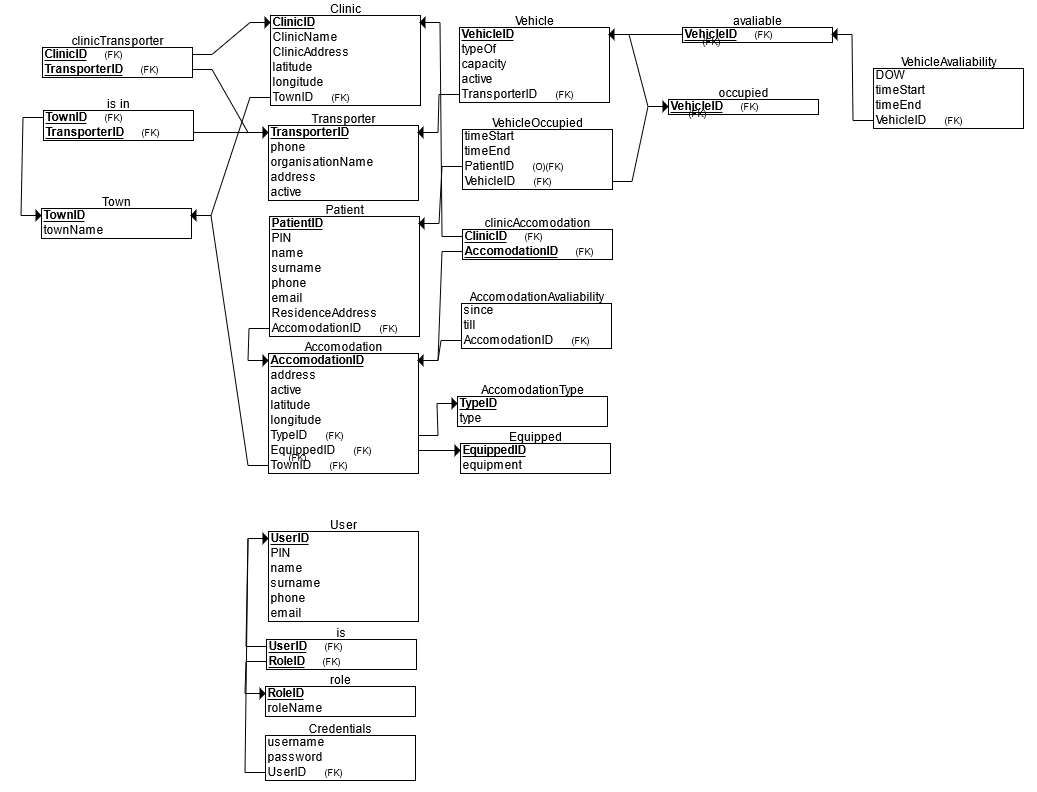
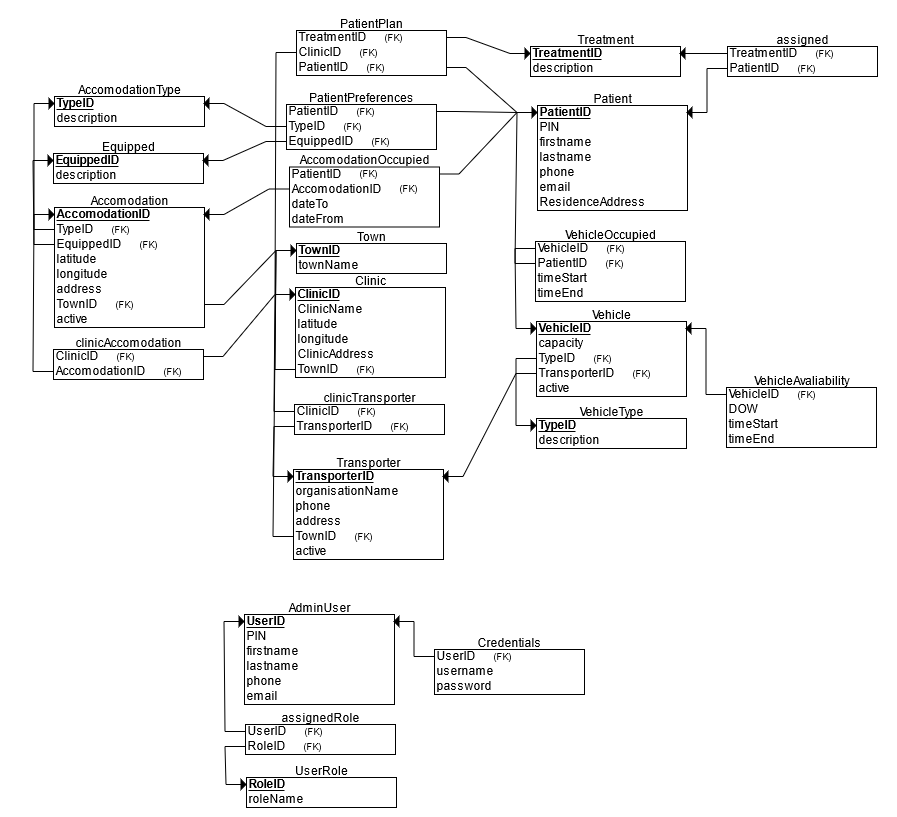
Dodane nove tablice i nova shema baze

diff --git a/Dokumentacija/Arhitektura.tex b/Dokumentacija/Arhitektura.tex
@@ -6,11 +6,11 @@
 		\item 	\textbf{Web poslužitelj} – glavni je dio web aplikacije. To je most koji povezuje korisnika i bazu podataka koji se temelji na protokolu HTTP. Na zahtjeve korisnika dohvaća tražene podatke (resurse) ili obrađuje i sprema poslane podatke od korisnika.
 		\item 	\textbf{Baza podataka} – srce je sustava. U njoj su pospremljeni svi podaci. Skoro ne postoji sustav u kojem nema komunikacije između aplikacije i baze.	
 	\end{itemize}
-		Aplikacije je izgrađena na modelu MVC (Model – View - Controller) softverske arhitekture. Shodno tome aplikaciju onda dijelimo na tri komponente:
+		Aplikacije je izgrađena na modelu MVC (Model – View - Controller) softverske arhitekture uz male modifikacije. Controller dio strukture je ostvaren tako što je integriran unutar same baze. Shodno tome aplikaciju onda dijelimo na tri komponente:
 	\begin{itemize}
 		\item	\textbf{Model} – glavna komponenta sustava. Čuva razrede čiji se objekti obrađuju.
 		\item	\textbf{View} – komponenta zaslužna za reprezentaciju podataka.
-		\item	\textbf{Controller} – komponenta zaslužna za komunikaciju između korisnika i modela ili view-a.
+		\item	\textbf{Controller} – komponenta koja odrađuje svu logiku i komunikaciju između sučelja i baze.
 	\end{itemize}
 	
 		\smallskip
@@ -29,16 +29,19 @@
 			\begin{itemize}
 				\item Clinic
 				\item Town
-				\item User
+				\item AdminUser
 				\item Credentials
-				\item Role
+				\item UserRole
 				\item Patient
+				\item Treatment
+				\item PatientPreferences
 				\item Accomodation
 				\item AccomodationType
 				\item Equipped
-				\item AccomodationAvaliability
+				\item AccomodationOccupied
 				\item Transporter
 				\item Vehicle
+				\item VehicleType
 				\item VehicleOccupied
 				\item VehicleAvaliability
 			\end{itemize}
@@ -46,7 +49,7 @@
 			\subsection{Opis tablica}
 			
 				%clinic
-				\textbf{Clinic} Ovaj entitet sadrži podatke o klinikama u odabranoj zemlji. Atributi su: ClinicID (primary key), clinicName, clinicAddress, TownID (foreign key), latitude i longitude. Ovaj je entitet u vezi Many-to-One sa entitetom Town preko atributa TownID, u Many-to-Many vazi sa entitetom Accomodation preko atributa ClinicID i AccomodationID te u Many-to-Many vezi sa entitetom Transporter preko atributa ClinicID i TransporterID.
+				\textbf{Clinic} Ovaj entitet sadrži podatke o klinikama u odabranoj zemlji. Atributi su: ClinicID (primary key), clinicName, latitude, longitude, clinicAddress, TownID (foreign key). Ovaj je entitet u vezi Many-to-One sa entitetom Town preko atributa TownID, u Many-to-Many vazi sa entitetom Accomodation preko atributa AccomodationID i ClinicID, u Many-to-Many vezi sa entitetom Transporter preko atributa TransporterID i ClinicID , u One-to-Many vezi sa entitetom Patient preko atributa PatientID i ClinicID te u Many-to-Many vezi sa entitetom Treatment preko atributa TreatmentID.
 				
 				\begin{longtblr}[
 					label=none,
@@ -58,15 +61,15 @@
 					} %definicija širine tablice, širine stupaca, poravnanje i broja redaka naslova tablice
 					\hline \SetCell[c=3]{c}{\textbf{Clinic}}	 \\ \hline[3pt]
 					\SetCell{LightGreen}ClinicID & BIGSERIAL & Jedinstveni brojčani identifikator klinike,automatski generiran \\ \hline
-					clinicName & VARCHAR & Ime klinike	\\ \hline 
-					clinicAddress & VARCHAR & Adresa klinike  \\ \hline 
+					clinicName & VARCHAR & Ime klinike	\\ \hline  
 					Latitude & DECIMAL	& Geografska širina	\\ \hline 
 					Longitude & DECIMAL & Geografska dužina \\ \hline
+					clinicAddress & VARCHAR & Adresa klinike  \\ \hline
 					\SetCell{LightBlue}TownID & INT & Grad u kojem se klinika nalazi \\ \hline
 				\end{longtblr}
 				
 				%Town
-				\textbf{Town} Ovaj entitet sadrži podatke o gradovima u kojima se nalaze klinike i dolaze pacijenti na liječenje. Atributi su: TownID (primary key) i townName. Ovaj entitet je u vezi One-to-Many sa entitetom Clinic preko atributa TownID i u vezi One-to-Many sa entitetom Accomodation preko atributa TownID i u Many-to-Many vezi sa entitetom Transporter preko atributa TownID.
+				\textbf{Town} Ovaj entitet sadrži podatke o gradovima u kojima se nalaze klinike u koje dolaze pacijenti na liječenje. Atributi su: TownID (primary key) i townName. Ovaj entitet je u vezi One-to-Many sa entitetom Clinic preko atributa TownID i u vezi One-to-Many sa entitetom Accomodation preko atributa TownID i u Many-to-Many vezi sa entitetom Transporter preko atributa TownID.
 				
 				\begin{longtblr}[
 					label=none,
@@ -81,8 +84,10 @@
 					townName & VARCHAR & Ime grada	\\ \hline 
 				\end{longtblr}
 				
-				%User
-				\textbf{User} Ovaj entitet sadrži podatke o korisnicima aplikacije; svi administratori i oni koji mogu dodavati ili ažurirati ili brisati podatke iz baze. Atributi su: UserID (primary key), PIN(personal identification number), name, surname, contact, email. Ovaj je entitet u vezi Many-to-Many sa entitetom Role preko atributa RoleID.
+				\newpage
+				
+				%AdminUser
+				\textbf{AdminUser} Ovaj entitet sadrži podatke o korisnicima aplikacije; svi administratori i oni koji mogu dodavati ili ažurirati ili brisati podatke iz baze. Atributi su: UserID (primary key), PIN(personal identification number), firstname, lastname, phone, email. Ovaj je entitet u vezi Many-to-Many sa entitetom UserRole preko atributa RoleID te u vezi One-to-One sa entitetom Credentials preko atributa UserID.
 				
 				\begin{longtblr}[
 					label=none,
@@ -92,17 +97,17 @@
 						colspec={|X[8,l]|X[6, l]|X[20, l]|}, 
 						rowhead = 1,
 					} %definicija širine tablice, širine stupaca, poravnanje i broja redaka naslova tablice
-					\hline \SetCell[c=3]{c}{\textbf{User}}	 \\ \hline[3pt]
+					\hline \SetCell[c=3]{c}{\textbf{AdminUser}}	 \\ \hline[3pt]
 					\SetCell{LightGreen}UserID & BIGSERIAL & Jedinstveni brojčani identifikator korisnika, automatski generiran \\ \hline
 					PIN & INT & Identifikacijski broj korisnika	\\ \hline 
-					name & VARCHAR & Ime korisnika  \\ \hline 
-					surname & VARCHAR & Prezime korisnika	\\ \hline 
+					firstname & VARCHAR & Ime korisnika  \\ \hline 
+					lastname & VARCHAR & Prezime korisnika	\\ \hline 
 					phone & VARCHAR & Broj mobitela korisnika \\ \hline
 					email & VARCHAR & Elektronička pošta korisnika \\ \hline
 				\end{longtblr}
 				
 				%Credentials
-				\textbf{Credentials} Ovaj entitet sadrži podatke o korisničkim računima administratora. Atributi su: username i password. Ovaj je entitet u One-to-One vezi sa entitetom User preko atributa UserID.
+				\textbf{Credentials} Ovaj entitet sadrži podatke o korisničkim računima administratora. Atributi su: UserID (foreign key), username i pass. Ovaj je entitet u One-to-One vezi sa entitetom AdminUser preko atributa UserID.
 				
 				\begin{longtblr}[
 					label=none,
@@ -113,13 +118,31 @@
 						rowhead = 1,
 					} %definicija širine tablice, širine stupaca, poravnanje i broja redaka naslova tablice
 					\hline \SetCell[c=3]{c}{\textbf{Credentials}}	 \\ \hline[3pt]
+					\SetCell{LightBlue}UserID & BIGSERIAL & ID korisnika kojem pripadaju korisničko ime i lozinka \\ \hline
 					username & VARCHAR & Jedinstveno korisničko ime \\ \hline
-					password & BINARY & Lozinka korisnika za prijavu u aplikaciju	\\ \hline 
-					\SetCell{LightBlue}UserID & INT & ID korisnika kojem pripadaju korisničko ime i lozinka \\ \hline
+					pass & BINARY & Lozinka korisnika za prijavu u aplikaciju	\\ \hline 
+				\end{longtblr}
+
+				\newpage
+
+				%UserRole
+				\textbf{UserRole} Ovaj entitet sadrži podatke o ulogama koje postoje u sustavu. Atributi su: RoleID i roleName. Ovaj je entite u Many-to-One vezi sa entitetom UserAdmin preko atributa UserID.
+				
+				\begin{longtblr}[
+					label=none,
+					entry=none
+					]{
+						width = \textwidth,
+						colspec={|X[8,l]|X[6, l]|X[20, l]|}, 
+						rowhead = 1,
+					} %definicija širine tablice, širine stupaca, poravnanje i broja redaka naslova tablice
+					\hline \SetCell[c=3]{c}{\textbf{UserRole}}	 \\ \hline[3pt]
+					\SetCell{LightGreen}RoleID & SMALLINT & Jedinstveni indentifikator uloge, automatski generiran \\ \hline
+					roleName & VARCHAR & ime uloge \\ \hline 
 				\end{longtblr}
 				
 				%Patient
-				\textbf{Patient} Ovaj entitet sadrži podatke o korisnicima zdravstvenog turizma. Atributi su: PatientID (primary key), PIN (personal identification number), name, surname, email, phone, residenceAddress. Ovaj je entitet u vezi Many-to-One sa entitetom Accomodation preko atributa AccomodationID.
+				\textbf{Patient} Ovaj entitet sadrži podatke o korisnicima zdravstvenog turizma. Atributi su: PatientID (primary key), PIN (personal identification number), firstname, lastname, phone, email, residenceAddress. Ovaj je entitet u vezi One-to-One sa entitetom Accomodation preko atributa AccomodationID, u vezi One-to-Many vezi sa entitetom Treatment preko atributa TreatmentID te u One-to-Many vezi sa entitetom Clinic preko atributa ClinicID i PatietnID.
 				
 				\begin{longtblr}[
 					label=none,
@@ -132,16 +155,50 @@
 					\hline \SetCell[c=3]{c}{\textbf{Patient}}	 \\ \hline[3pt]
 					\SetCell{LightGreen}PatientID & BIGSERIAL & Jedinstveni brojčani identifikator pacijenta, automatski generiran \\ \hline
 					PIN & INT & Identifikacijski broj pacijenta	\\ \hline 
-					name & VARCHAR & Ime pacijenta  \\ \hline 
-					surname & VARCHAR & Prezime pacijenta	\\ \hline 
+					firstname & VARCHAR & Ime pacijenta  \\ \hline 
+					lastname & VARCHAR & Prezime pacijenta	\\ \hline 
 					phone & VARCHAR & Broj mobitela pacijenta \\ \hline
 					email & VARCHAR & Elektronička pošta pacijenta \\ \hline
 					residenceAddress & VARCHAR & Mjesto prebivališta pacijenta \\ \hline
-					\SetCell{LightBlue}AccomodationID & INT & ID smještaja u kojem je smješten pacijent \\ \hline
+				\end{longtblr}
+				
+				\newpage
+				
+				%Treatment
+				\textbf{Treatment} Ovaj entitet sadrži podatke o tretmanima. Atributi su: TreatmentID (primary key) i description. Ovaj je entite u Many-to-One vezi sa entitetom Patient preko atributa TreatmentID i PatientID te u One-to-Many vezi sa entitetom Clinic preko atributa TreatmentID i ClinicID.
+				
+				\begin{longtblr}[
+					label=none,
+					entry=none
+					]{
+						width = \textwidth,
+						colspec={|X[8,l]|X[6, l]|X[20, l]|}, 
+						rowhead = 1,
+					} %definicija širine tablice, širine stupaca, poravnanje i broja redaka naslova tablice
+					\hline \SetCell[c=3]{c}{\textbf{Treatment}}	 \\ \hline[3pt]
+					\SetCell{LightGreen}TreatmentID & BIGSERIAL & Jedinstveni indentifikator tretmana, automatski generiran \\ \hline
+					description & text & opsi tretmana \\ \hline 
+				\end{longtblr}
+				
+					%PatientPreferences
+				\textbf{PatientPreferences} Ovaj entitet sadrži podatke o preferencijama pacijenta vezanih za smještaj. Atributi su: PatientID (foreign key), TypeID (foreign key), EquippedID (foreign key). Ovaj je entite u Many-to-One vezi sa entitetom Patient preko atributa PatientID, u One-to-One vezi sa entitetom AccomodationType preko atributa AccomodationID te u One-to-One vezi sa entitetom Equipped preko atributa EquippedID.
+				
+				\begin{longtblr}[
+					label=none,
+					entry=none
+					]{
+						width = \textwidth,
+						colspec={|X[8,l]|X[6, l]|X[20, l]|}, 
+						rowhead = 1,
+					} %definicija širine tablice, širine stupaca, poravnanje i broja redaka naslova tablice
+					\hline \SetCell[c=3]{c}{\textbf{PatientPreferences}}	 \\ \hline[3pt]
+					\SetCell{LightBlue}PatientID & BIGSERIAL & Jedinstveni indentifikator pacijenta, automatski generiran \\ \hline
+					\SetCell{LightBlue}TypeID & SMALLINT & Jedinstveni indentifikator vrste smještaja, automatski generiran \\ \hline
+					\SetCell{LightBlue}EquippedID & SMALLINT & Jedinstveni indentifikator opremljenosti smještaja, automatski generiran \\ \hline
 				\end{longtblr}
 				
 				%Accomodation
-				\textbf{Accomodation} Ovaj entitet sadrži podatke o smještaju, vrsti smještaja, njegovoj opremljenosti te adresi na kojoj se nalazi kao i koordinatama. Atributi su: AccomodationID (primary key), address, latitude, longitude, active. Ovaj je entitet u vezi Many-to-One sa entitetom Town preko atributa TownID, nadalje u vezi Many-to-One sa entitetom AccomodationType preko atributa TypeID, u vezi Many-to-One sa entitetom Equipped preko atributa EquippedID, u vezi Many-to-One sa entitetom AccomodationAvaliability preko atributa AccomodationID te u vezi One-to-Many sa entitetom Patient preko atributa AccomodationID.
+				\textbf{Accomodation} Ovaj entitet sadrži podatke o smještaju, vrsti smještaja, njegovoj opremljenosti te adresi na kojoj se nalazi kao i koordinatama. Atributi su: AccomodationID (primary key), TypeID (foreign key), EquippedID (foreing key), latitude, longitude, address, TownID (foreign key), active. Ovaj je entitet u vezi Many-to-One sa entitetom Town preko atributa TownID, nadalje u vezi Many-to-One sa entitetom AccomodationType preko atributa TypeID, u vezi Many-to-One sa entitetom Equipped preko atributa EquippedID, u vezi One-to-One sa entitetom Patient preko atributa AccomodationID i PatientID.
 				
 				\begin{longtblr}[
 					label=none,
@@ -153,17 +210,17 @@
 					} %definicija širine tablice, širine stupaca, poravnanje i broja redaka naslova tablice
 					\hline \SetCell[c=3]{c}{\textbf{Accomodation}}	 \\ \hline[3pt]
 					\SetCell{LightGreen}AccomodationID & BIGSERIAL & Jedinstveni brojčani identifikator smještaja, automatski generiran \\ \hline
-					address & VARCHAR & Adresa smještaja	\\ \hline 
-					latitude & DECIMAL & Geografska širina  \\ \hline 
-					longitude & DECIMAL & Geografska dužina	\\ \hline 
-					active & BIT & Je li smještaj upotrebljiv \\ \hline
 					\SetCell{LightBlue} TypeID & INT & ID vrste smještaja \\ \hline
 					\SetCell{LightBlue} EquippedID & INT & ID opremljenosti smještaja \\ \hline
+					latitude & DECIMAL & Geografska širina  \\ \hline 
+					longitude & DECIMAL & Geografska dužina	\\ \hline 
+					address & VARCHAR & Adresa smještaja	\\ \hline
 					\SetCell{LightBlue} TownID & INT & ID grada u kojem se smještaj nalazi \\ \hline
+					active & BIT & Je li smještaj upotrebljiv \\ \hline
 				\end{longtblr}
 				
 				%AccomodationType
-				\textbf{AccomodationType} Ovaj entitet sadrži podatke o tipu smještaja (stan u zgradi, stan u kući, iznajmljeno, u vlasništvu klinike) . Atributi su: TypeID (primary key), type. Ovaj je entitet u One-to-Many vezi s entitetom Accomodation preko atributa TypeID.
+				\textbf{AccomodationType} Ovaj entitet sadrži podatke o tipu smještaja (stan u zgradi, stan u kući, iznajmljeno, u vlasništvu klinike). Atributi su: TypeID (primary key), description. Ovaj je entitet u One-to-Many vezi s entitetom Accomodation preko atributa TypeID.
 				
 				\begin{longtblr}[
 					label=none,
@@ -174,12 +231,12 @@
 						rowhead = 1,
 					} %definicija širine tablice, širine stupaca, poravnanje i broja redaka naslova tablice
 					\hline \SetCell[c=3]{c}{\textbf{AccomodationType}}	 \\ \hline[3pt]
-					\SetCell{LightGreen}TypeID & SMALLINT & Jedinstveni brojčani identifikator vrste smještaja, automatski generiran \\ \hline
+					\SetCell{LightGreen}TypeID & SMALLINT & Jedinstveni identifikator vrste smještaja, automatski generiran \\ \hline
 					description & TEXT & Opis vrste smještaja (stan u kući, stan u zgradi, soba u hotelu ili motelu)	\\ \hline 
 				\end{longtblr}
 				
 				%Equipped
-				\textbf{Equipped} Ovaj entitet sadrži podatke o vrsti opremljenosti smještaja (potpuno opremljen, djelomično opremljen).  Atributi su: EquippedID (primary key), equipment. Ovaj je entitet u One-to-Many vezi sa entitetom Accomodation preko atributa EquippedID.
+				\textbf{Equipped} Ovaj entitet sadrži podatke o vrsti opremljenosti smještaja (potpuno opremljen, djelomično opremljen). Atributi su: EquippedID (primary key), equipment. Ovaj je entitet u One-to-Many vezi sa entitetom Accomodation preko atributa EquippedID.
 				
 				\begin{longtblr}[
 					label=none,
@@ -190,12 +247,12 @@
 						rowhead = 1,
 					} %definicija širine tablice, širine stupaca, poravnanje i broja redaka naslova tablice
 					\hline \SetCell[c=3]{c}{\textbf{Equipped}}	 \\ \hline[3pt]
-					\SetCell{LightGreen}EquippedID & SMALLINT & Jedinstveni brojčani identifikator opremljenosti smještaja, automatski generiran \\ \hline
+					\SetCell{LightGreen}EquippedID & SMALLINT & Jedinstveni identifikator opremljenosti smještaja, automatski generiran \\ \hline
 					equipment & TEXT & Opis opremljenosti smještaja (potpuno opremljen, djelomično opremljen)	\\ \hline 
 				\end{longtblr}
 				
-				%AccomodationAvaliability
-				\textbf{AccomodationAvaliability} Ovaj entitet sadrži podatke o dostupnosti smještaja za naseljavanje za vrijeme medicinskog boravka. Atributi su: since, till. Ovaj je entitet u One-to-Many vezi sa entitetom Accomodation preko atributa AccomodationID.
+				%AccomodationOccupied
+				\textbf{AccomodationOccupied} Ovaj entitet sadrži podatke o zauzetosti smještaja kojima raspolaže pojedina klinika. Atributi su: PatientID (foreign key), AccomodationID (foreign key), dateTo, dateFrom. Ovaj je entitet u One-to-One vezi sa entitetom Accomodation preko atributa AccomodationID te u One-to-One vezi sa entiteom Patient preko atributa PatientID.
 				
 				\begin{longtblr}[
 					label=none,
@@ -205,14 +262,15 @@
 						colspec={|X[8,l]|X[6, l]|X[20, l]|}, 
 						rowhead = 1,
 					} %definicija širine tablice, širine stupaca, poravnanje i broja redaka naslova tablice
-					\hline \SetCell[c=3]{c}{\textbf{AccomodationAvaliability}}	 \\ \hline[3pt]
-					since & DATE & Datum od kojeg je smještaj dostupan \\ \hline
-					till & DATE & Datum do kojeg je smještaj dostupan \\ \hline
-					\SetCell{LightBlue}AccomodationID & ID & ID smještaja \\ \hline 
+					\hline \SetCell[c=3]{c}{\textbf{AccomodationOccupied}}	 \\ \hline[3pt]
+					\SetCell{LightBlue}PatientID & BIGSERIAL & Jedinstveni identifikator pacijenta \\ \hline
+					\SetCell{LightBlue}AccomodationID & BIGSERIAL & Jedinstveni identifikator smještaja \\ \hline
+					dateFrom & DATE & Datum od kojeg je smještaj dostupan \\ \hline
+					dateTo & DATE & Datum do kojeg je smještaj dostupan \\ \hline 
 				\end{longtblr}
 				
 				%Transporter
-				\textbf{Transporter} Ovaj entitet sadrži podatke o prijevoznicima s kojima klinika ima ugovore za prijevoz pacijenata. Atributi su: TransporterID (primary key), organisationName, contact, address, active. Ovaj je entitet u Many-to-Many vezi sa entitetom Town preko atributa TownID, u Many-to-Many vezi sa entitetom Clinic preko atributa ClincID te u One-to-Many vezi sa entitetom Vehicle preko atributa TransporterID.
+				\textbf{Transporter} Ovaj entitet sadrži podatke o prijevoznicima s kojima klinika ima ugovore za prijevoz pacijenata. Atributi su: TransporterID (primary key), organisationName, phone, address, TownID (foreign key), active. Ovaj je entitet u Many-to-Many vezi sa entitetom Town preko atributa TownID, u Many-to-Many vezi sa entitetom Clinic preko atributa ClincID te u One-to-Many vezi sa entitetom Vehicle preko atributa TransporterID.
 				
 				\begin{longtblr}[
 					label=none,
@@ -223,15 +281,16 @@
 						rowhead = 1,
 					} %definicija širine tablice, širine stupaca, poravnanje i broja redaka naslova tablice
 					\hline \SetCell[c=3]{c}{\textbf{Transporter}}	 \\ \hline[3pt]
-					\SetCell{LightGreen}TransporterID & BIGSERIAL & Jedinstveni brojčani identifikator prijevoznika, automatski generiran \\ \hline
+					\SetCell{LightGreen}TransporterID & BIGSERIAL & Jedinstveni identifikator prijevoznika, automatski generiran \\ \hline
 					organisationName & VARCHAR & Ime prijevoznika \\ \hline
 					phone & VARCHAR & Broj mobitela prijevoznika \\ \hline
 					address & VARCHAR & Adresa baze prijevoznika \\ \hline
+					\SetCell{LightBlue} TownID & INT & ID grada u kojem se smještaj nalazi \\ \hline
 					active & BIT & Je li prijevoznik radi \\ \hline
 				\end{longtblr}
 				
 				%Vehicle
-				\textbf{Vehicle} Ovaj entitet sadrži podatke o vozilima kojima transporter raspolaže. Atributi su: VehicleID (primary key), typeOf, capacity te active. Ovaj je entitet u Many-to-One vezi sa entitetom Transporter preko atributa TransporterID, u Many-to-Many vezi sa netitetom VehicleOccupied preko atributa VehicleID te u Many-to-Many vezi sa entitetom VehicleAvaliability preko atributa VehicleID.
+				\textbf{Vehicle} Ovaj entitet sadrži podatke o vozilima kojima transporter raspolaže. Atributi su: VehicleID (primary key), capacity TypeID (foreign key), TransporterID (foreign key) te active. Ovaj je entitet u Many-to-One vezi sa entitetom Transporter preko atributa TransporterID, u Many-to-Many vezi sa entitetom VehicleOccupied preko atributa VehicleID, u One-to-One vezi sa entitetom VehicleType preko atributa VehicleID te u One-to-Manz vezi sa entitetom VehicleAvaliability preko atributa VehicleID.
 				
 				\begin{longtblr}[
 					label=none,
@@ -242,15 +301,33 @@
 						rowhead = 1,
 					} %definicija širine tablice, širine stupaca, poravnanje i broja redaka naslova tablice
 					\hline \SetCell[c=3]{c}{\textbf{Vehicle}}	 \\ \hline[3pt]
-					\SetCell{LightGreen}VehicleID & BIGSERIAL & Jedinstveni brojčani identifikator vozila, automatski generiran \\ \hline
-					typeOf & VARCHAR & Vrsta vozila (kombi, auto) \\ \hline
+					\SetCell{LightGreen}VehicleID & BIGSERIAL & Jedinstveni identifikator vozila, automatski generiran \\ \hline
 					capacity & SMALLINT & Kapacitet vozila (2 osobe, 4 osobe, 5 osoba….) \\ \hline
+					\SetCell{LightBlue}TypeID & SAMLLINT & Vresta vozila \\ \hline
+					\SetCell{LightBlue}TransporterID & INT & Jedinstveni identifikator prijevoznika kojem vozilo pripada \\ \hline
 					active & BIT & Je li vozilo u funkciji \\ \hline
-					\SetCell{LightBlue}TransporterID & INT & ID prijevoznika kojem vozilo pripada \\ \hline
 				\end{longtblr}
 				
+				%VehicleType
+				\textbf{VehicleType} Ovaj entitet sadrži podatke o vrsti vozila. Atributi su: TypeID(primary key), description. Ovaj je entitet u One-to-One vezi sa entitetom Vehicele preko atributa VehicleID.
+				
+				\begin{longtblr}[
+					label=none,
+					entry=none
+					]{
+						width = \textwidth,
+						colspec={|X[8,l]|X[6, l]|X[20, l]|}, 
+						rowhead = 1,
+					} %definicija širine tablice, širine stupaca, poravnanje i broja redaka naslova tablice
+					\hline \SetCell[c=3]{c}{\textbf{VehicleType}}	 \\ \hline[3pt]
+					\SetCell{LightGreen}TypeID & SMALLINT & Jedinstveni identifikator vrste vozila, automatski generiran \\ \hline
+					description & TEXT & Opis vrste vozila (auto, kombi, min-bus...) \\ \hline
+				\end{longtblr}
+				
+				\newpage
+				
 				%VehicleOccupied
-				\textbf{VehicleOccupied} Ovaj entitet sadrži podatke o vremenima kada je koje vozilo zauzeto, tj. kada prevozi pacijente od smještaja do klinike te natrag to smještaja. Atributi su: timeStart, timeEnd, PatientID. Ovaj je entitet u Many-to-Many vezi sa entitetom Vehicle preko atributa VehicleID te u One-to-One vezi sa entitetom Patient preko atributa PatientID.
+				\textbf{VehicleOccupied} Ovaj entitet sadrži podatke o vremenima kada je koje vozilo zauzeto, tj. kada prevozi pacijente od smještaja do klinike te natrag. Atributi su: VehicleID (foreign key), PatientID (foreign key), timeStart, timeEnd. Ovaj je entitet u One-to-Many vezi sa entitetom Vehicle preko atributa VehicleID te u One-to-One vezi sa entitetom Patient preko atributa PatientID.
 				
 				\begin{longtblr}[
 					label=none,
@@ -261,14 +338,14 @@
 						rowhead = 1,
 					} %definicija širine tablice, širine stupaca, poravnanje i broja redaka naslova tablice
 					\hline \SetCell[c=3]{c}{\textbf{VehicleOccupied}}	 \\ \hline[3pt]
+					\SetCell{LightBlue}VehicleID & INT & Jedinstveni identifikator vozila koje je zauzeto \\ \hline
+					\SetCell{LightBlue}PatientID & INT & Jedinstveni identifikator pacijenta kojem je vozilo dodijeljeno \\ \hline
 					timeStart & TIME & Vrijem od kada je vozilo zauzeto \\ \hline
 					timeEnd & TIME & Vrijeme do kada je vozilo zauzeto \\ \hline
-					\SetCell{LightBlue}PatientID & INT & ID pacijenta kojem je vozilo dodijeljeno \\ \hline
-					\SetCell{LightBlue}VehicleID & INT & ID vozila koje je zauzeto \\ \hline
 				\end{longtblr}
 				
 				%VehicleAvaliability
-				\textbf{VehicleAvaliability} Ovaj entitet sadrži podatke o vremenima kada je koje vozilo dostupno, tj. radno vrijeme radnih dana. Atributi su: DOW (day of the week), tiemStart, timeEnd. Ovaj je entitet u Many-to-Many vezi sa entitetom Vehicle preko atributa VehicleID.
+				\textbf{VehicleAvaliability} Ovaj entitet sadrži podatke o vremenima kada je koje vozilo dostupno, tj. radno vrijeme radnih dana. Atributi su: VehicelID (foreign key), DOW (day of the week), tiemStart, timeEnd. Ovaj je entitet u Many-to-Many vezi sa entitetom Vehicle preko atributa VehicleID.
 				
 				\begin{longtblr}[
 					label=none,
@@ -279,10 +356,10 @@
 						rowhead = 1,
 					} %definicija širine tablice, širine stupaca, poravnanje i broja redaka naslova tablice
 					\hline \SetCell[c=3]{c}{\textbf{VehicleAvaliability}}	 \\ \hline[3pt]
+					\SetCell{LightBlue}VehicleID & INT & Jedinstveni identifikator vozila \\ \hline
 					DOW & SMALLINT & Dan u tjednu u kojem je vozilo slobodno \\ \hline
 					timeStart & TIME & Vrijem od kada je vozilo slobodno \\ \hline
 					timeEnd & TIME & Vrijeme do kada je vozilo slobodno \\ \hline
-					\SetCell{LightBlue}VehicleID & INT & ID vozila koje zauzeto u vremenskom razdoblju \\ \hline
 				\end{longtblr}
 				
 			\subsection{Dijagram baze podataka}
